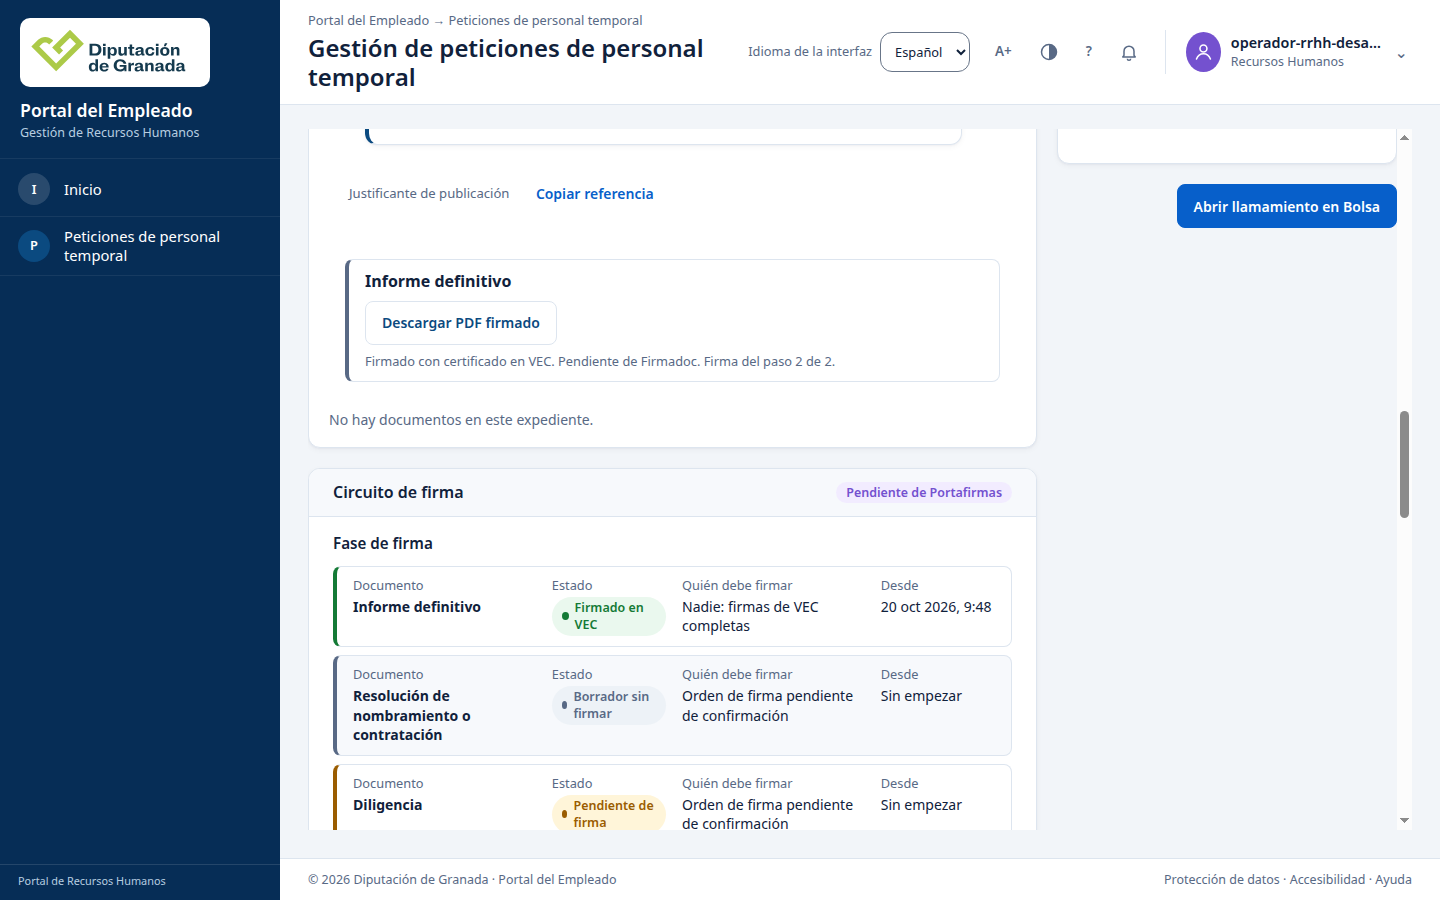
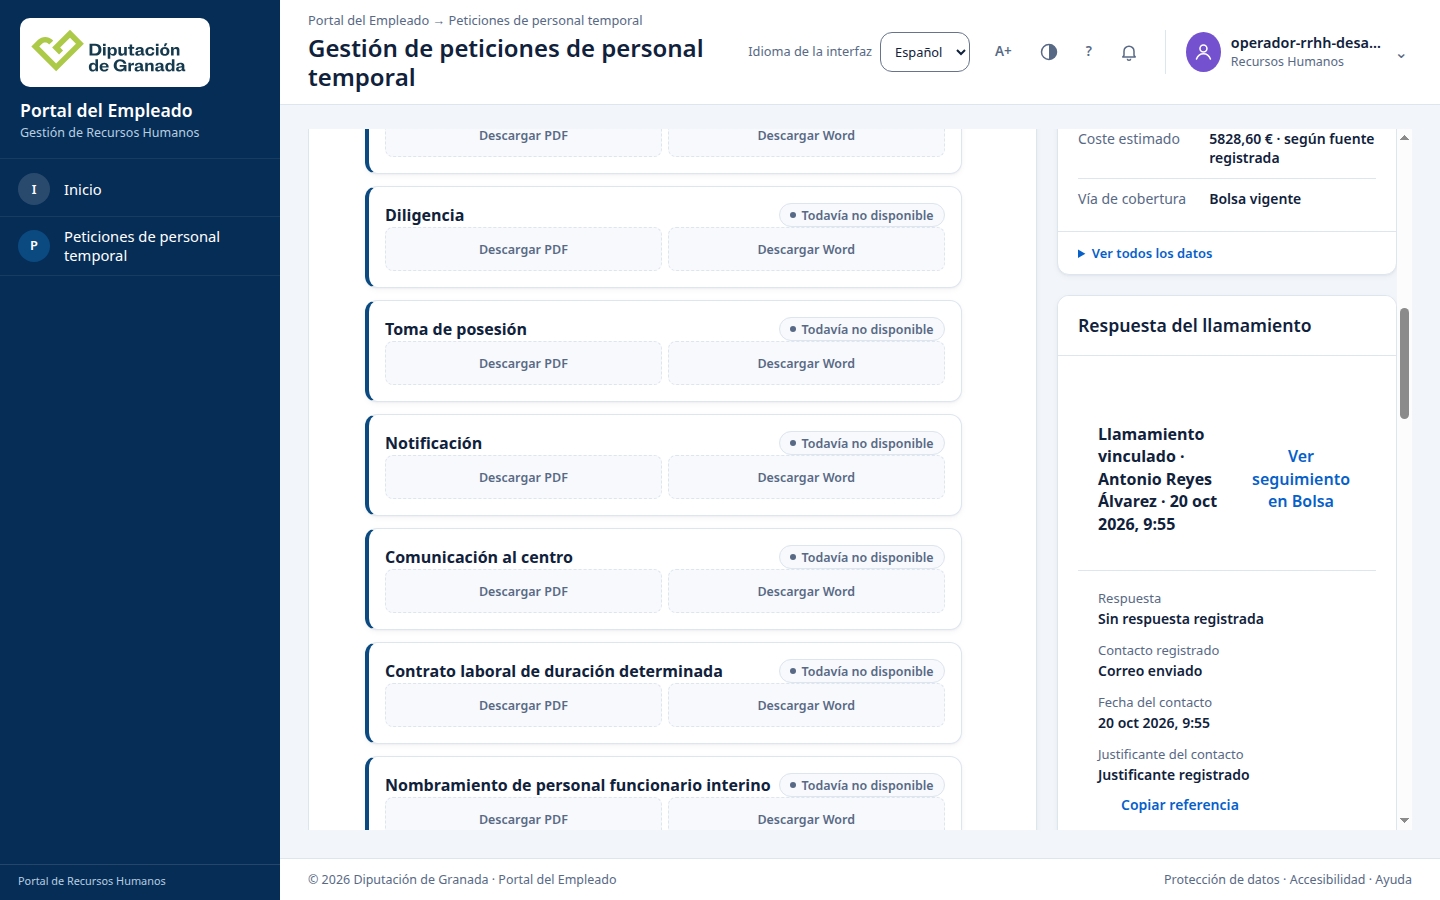
Tarea: F1-27 — acreditar conservación tras reinicio parcial

diff --git a/docs/estudio_requisitos/recorrido_f1_27_formalizacion_20261020.md b/docs/estudio_requisitos/recorrido_f1_27_formalizacion_20261020.md
@@ -77,11 +77,44 @@ manual de resolución devolvió 201 y dejó la versión 8. Es un expediente
 de Auxiliar Administrativo distinto del caso de Antonio: ese resultado no
 acredita el paso 13 del caso 4.0.
 
+Desde esa ficha se descargaron la resolución, diligencia, toma de posesión,
+notificación y comunicación al centro en PDF y Word: diez ficheros. La
+resolución conserva el logotipo y el número 2026/CT-000132; los cinco Word
+contienen su XML y una imagen. Es una comprobación separada de descargas,
+sin firmas de resolución y sin aceptación del caso de Antonio.
+
 En esa ficha, las consultas de plan de alta en Personal y vínculo de
 categoría RPT responden 404. La fábrica no prepara por sí sola
 `VEC_CT_INCORPORACION_V2_FILE` ni la configuración de Personal y relevo de
 cese. Su activación se está preparando por la receta existente; no se
 han fabricado capacidades, firmas ni recibos para suplirla.
+
+## Reinicio parcial
+
+Se reiniciaron la aplicación y PostgreSQL con la revisión de código
+ensayada. Antes y después son idénticos la versión 6, los dos recibos de
+firma, sus fechas y las huellas de los PDF firmados. También coinciden
+estos ocho recuentos:
+
+| Registro | Antes y después |
+| --- | --- |
+| Firmas | 2 |
+| Auditorías de firma | 2 |
+| Custodias de firma | 2 |
+| Salidas de firma | 2 |
+| Revisiones de PDF | 2 |
+| Reservas de fiscalización | 10 |
+| Terminales de fiscalización | 10 |
+| Vínculos de emisión de Bolsa | 1 |
+
+La ficha conserva Antonio, la emisión de las 9:55 y «Correo enviado».
+La lectura de comunicaciones respondió 503 en una carga posterior al
+reinicio; no se considera resuelta ni se presenta el arranque como libre
+de errores. El bloque vinculado sigue mostrando «Sin respuesta registrada».
+En 1440 y 390 píxeles el ancho del documento coincide con el de la ventana;
+no hay cookies ni contenido en los almacenes local y de sesión.
+
+Este reinicio parcial no sustituye la comprobación final después del cierre.
 
 ## Pendiente
 
@@ -95,4 +128,5 @@ cotejo de los mismos recibos, fechas y recuentos.
 
 - [Llamamiento vinculado y correo enviado](recorrido_f1_27_formalizacion_20261020/09_vinculo.png).
 - [Mi Bolsa sin acción de aceptación](recorrido_f1_27_formalizacion_20261020/10_mi_bolsa.png).
+- [Llamamiento tras reiniciar, a 390 píxeles](recorrido_f1_27_formalizacion_20261020/reinicio_390.png).
 - [Resolución registrada en la semilla histórica distinta](recorrido_f1_27_formalizacion_20261020/13_semilla_distinta.png).
